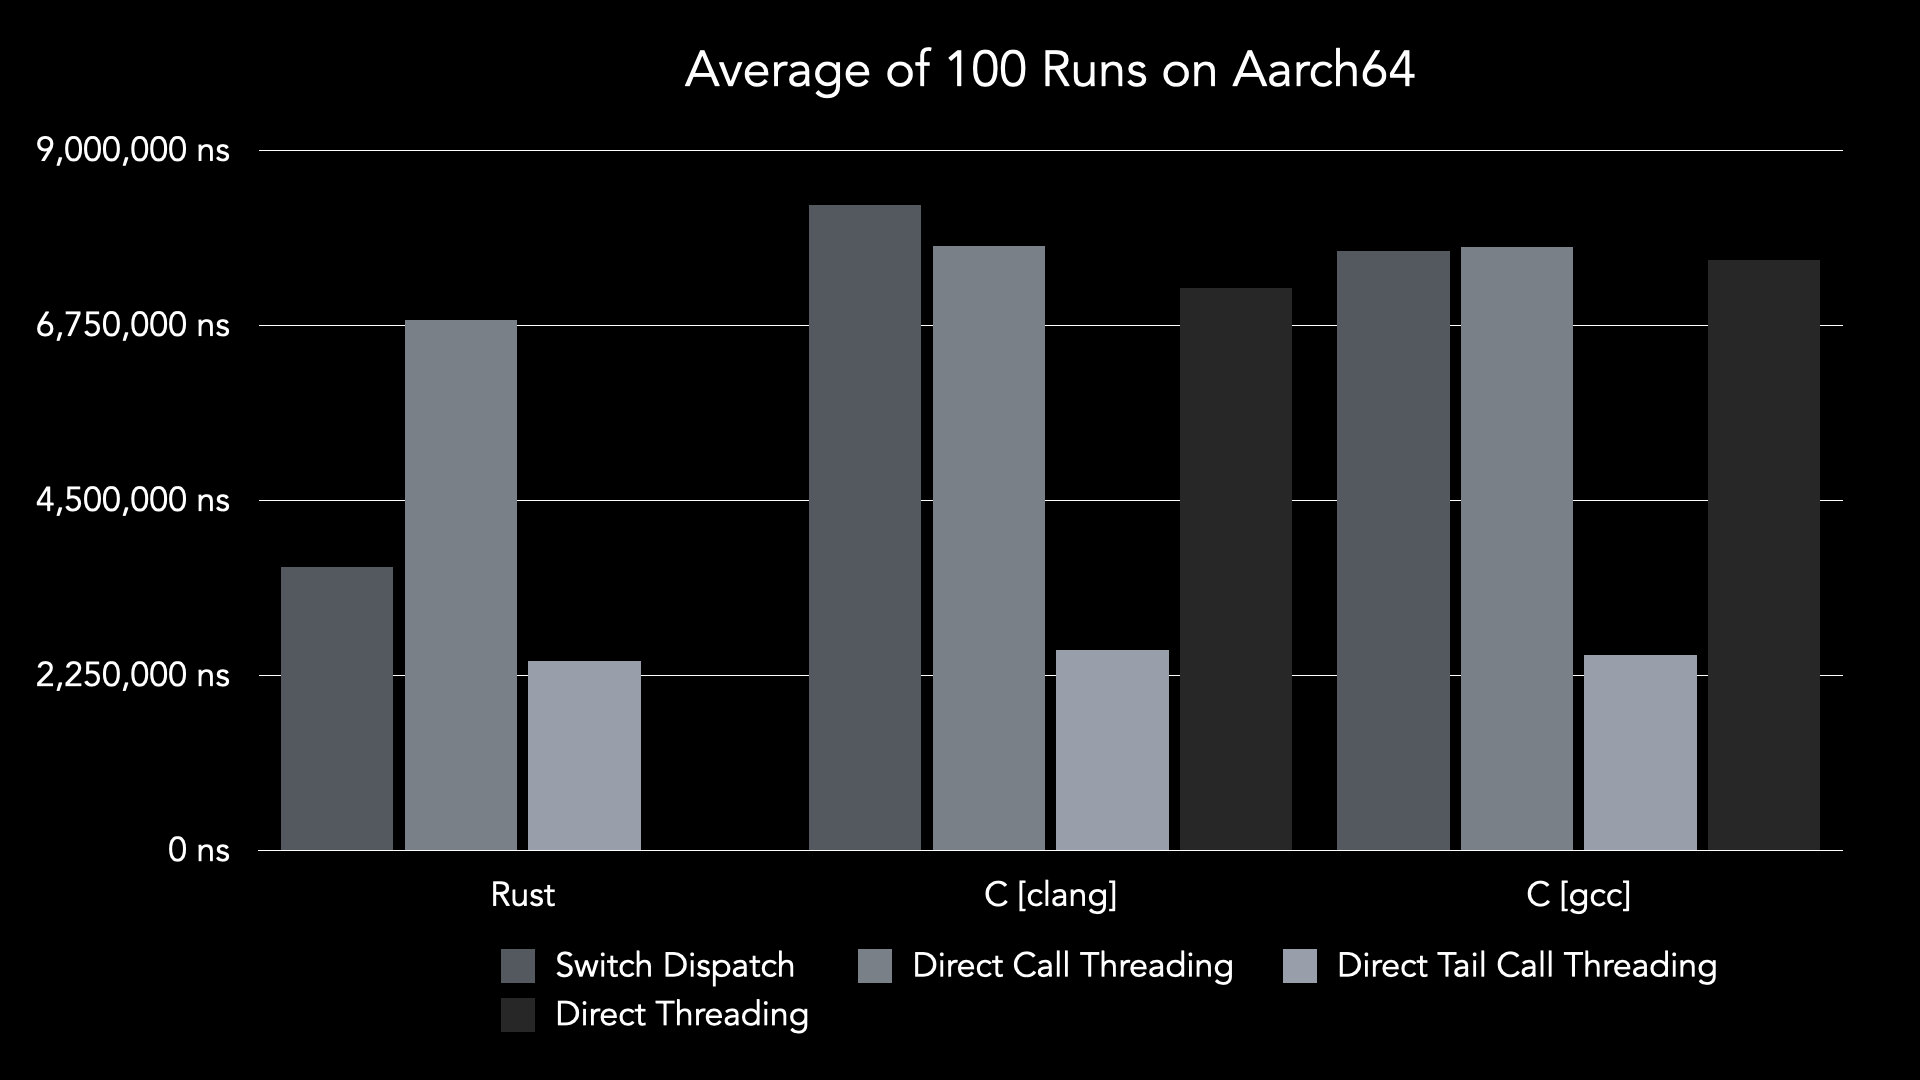
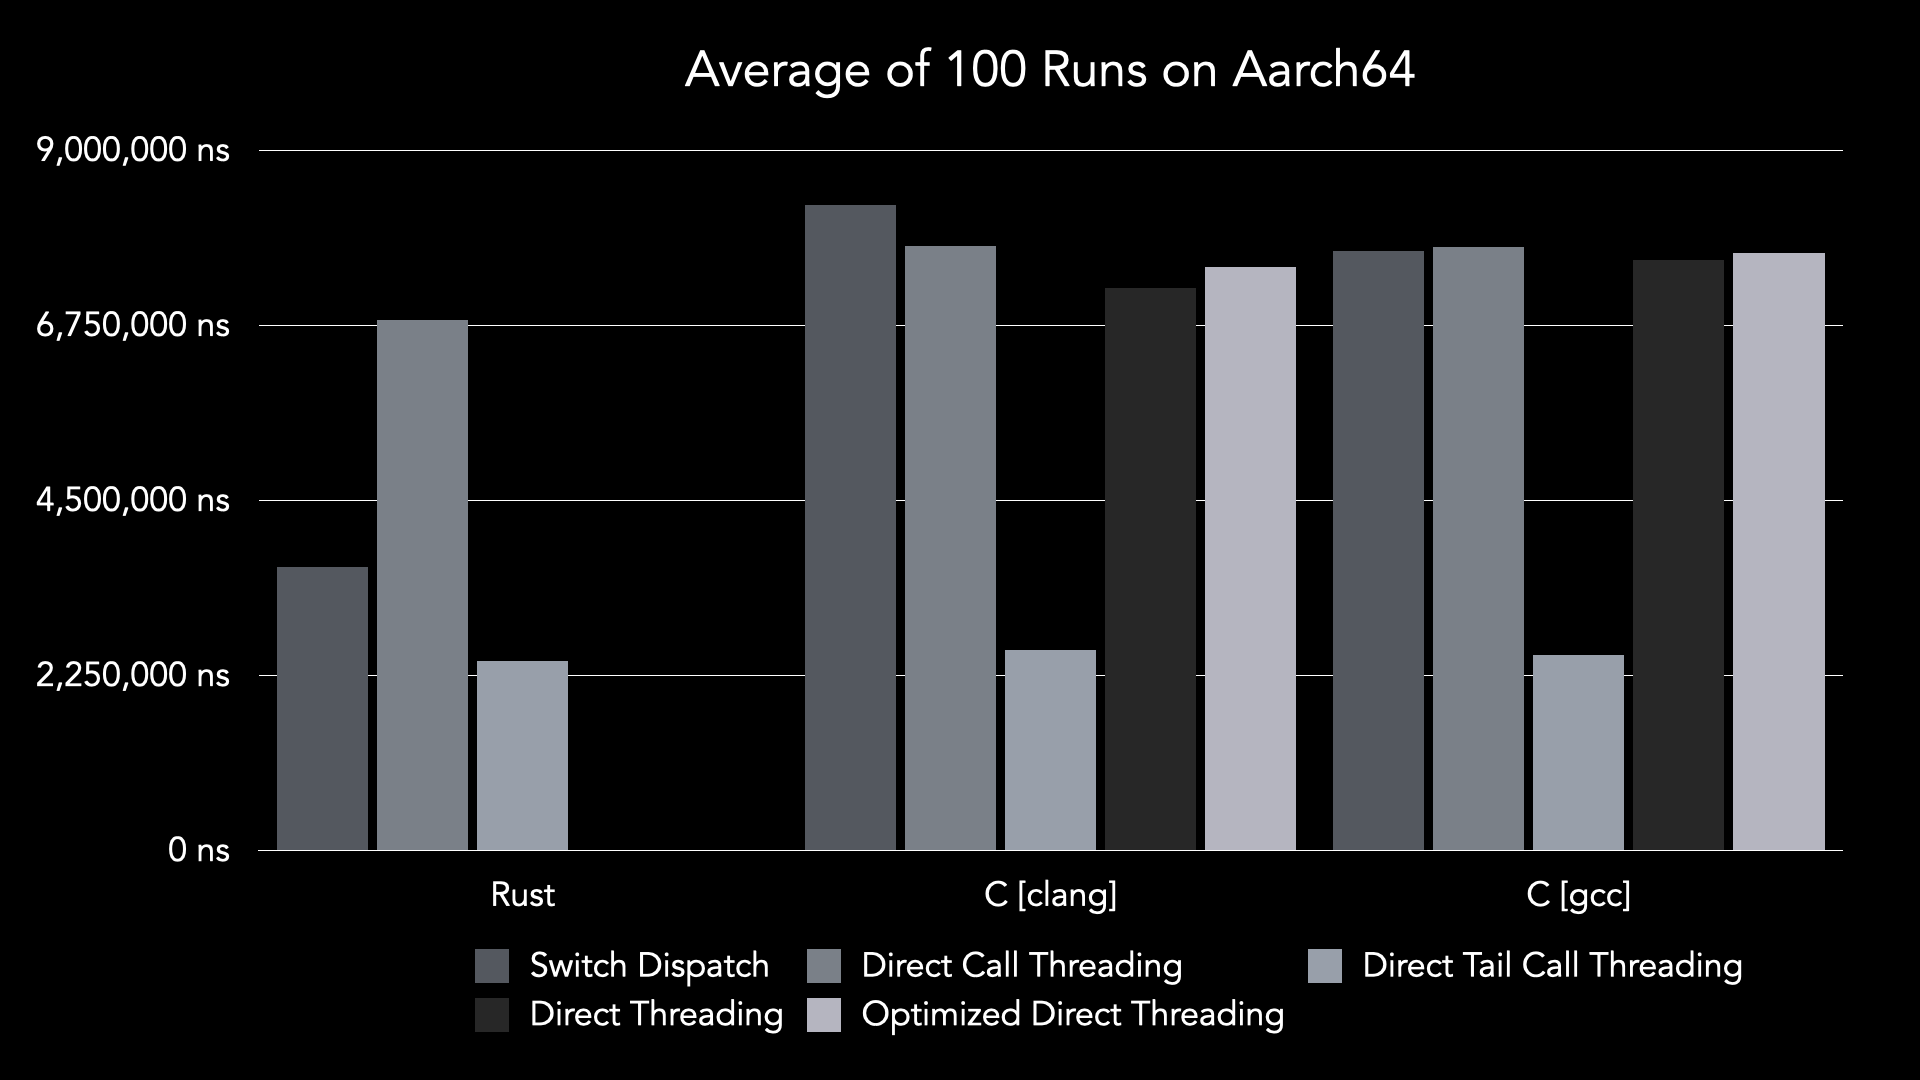
Added Optimized Direct Threading results to Perfomance Comparison

diff --git a/README.md b/README.md
@@ -260,7 +260,7 @@ Add memory location 0 by 1 from 0 to 1,048,575(0xfffff).
 | Direct Call Threading      | 7.0812 | 6,818,994 | 7,776,315 | 7,755,413 |
 | Direct Tail Call Threading | 2.4328 | 2,435,381 | 2,585,706 | 2,518,542 |
 | Direct Threading           |  -[^9] |     -[^9] | 7,228,139 | 7,588,820 |
-| Optimized Direct Threading |  -[^9] |     -[^9] |         - |         - |
+| Optimized Direct Threading |  -[^9] |     -[^9] | 7,499,937 | 7,687,219 |
 
 [^9]: compile error: invalid CFI advance_loc expression
 
@@ -275,8 +275,8 @@ Measured on MacBook Pro 13" 2020 (Apple M1) with rustc 1.75.0 and clang 17.0.6, 
 | Switch Dispatch            |   5.8429 |  5,567,571 | 23,849,510 | 13,881,652 |
 | Direct Call Threading      |   5.3217 |  5,198,761 | 19,624,856 | 19,149,867 |
 | Direct Tail Call Threading |   2.7867 |  2,642,556 |  5,581,770 |  6,873,807 |
-| Direct Threading           |  18.406  | 17,630,074 | 21,634,645 | 12,296,709 |
-| Optimized Direct Threading |  11.236  |  9,748,775 |          - |          - |
+| Direct Threading           |  15.904  | 12,973,085 | 21,634,645 | 12,296,709 |
+| Optimized Direct Threading |  11.236  |  9,748,775 |  8,621,428 |  5,080,664 |
 
 Measured on DELL-inspiron 15 3000 2019 (Intel Core i7-1065G7) with rustc 1.75.0 and clang 15.0.7, gcc 12.3.0
 
